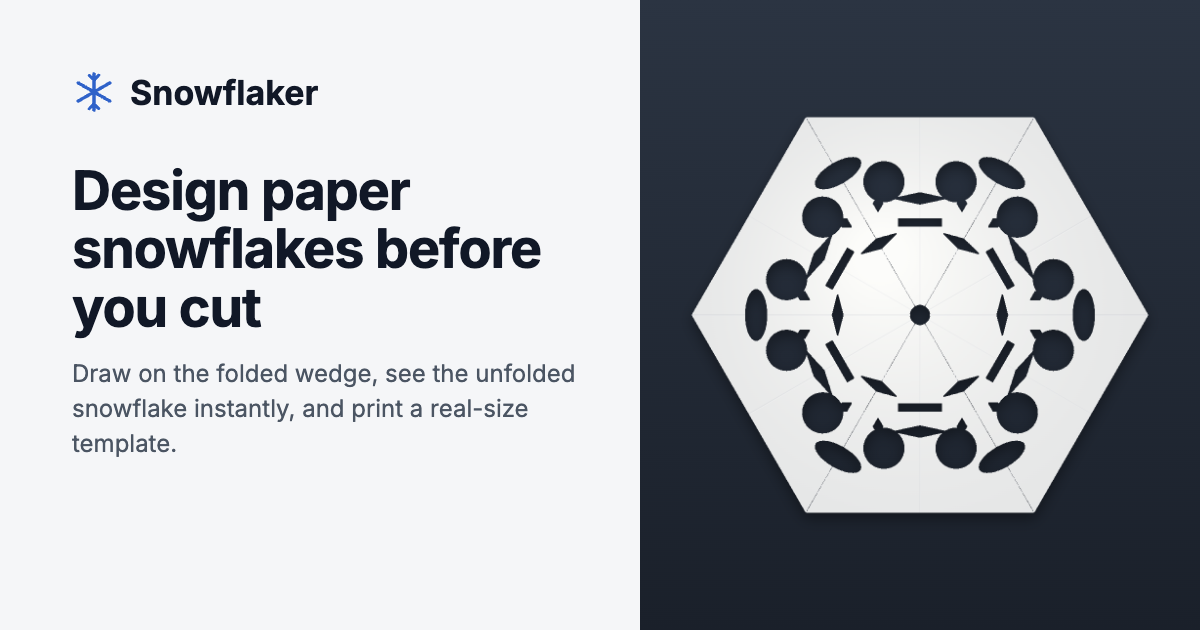
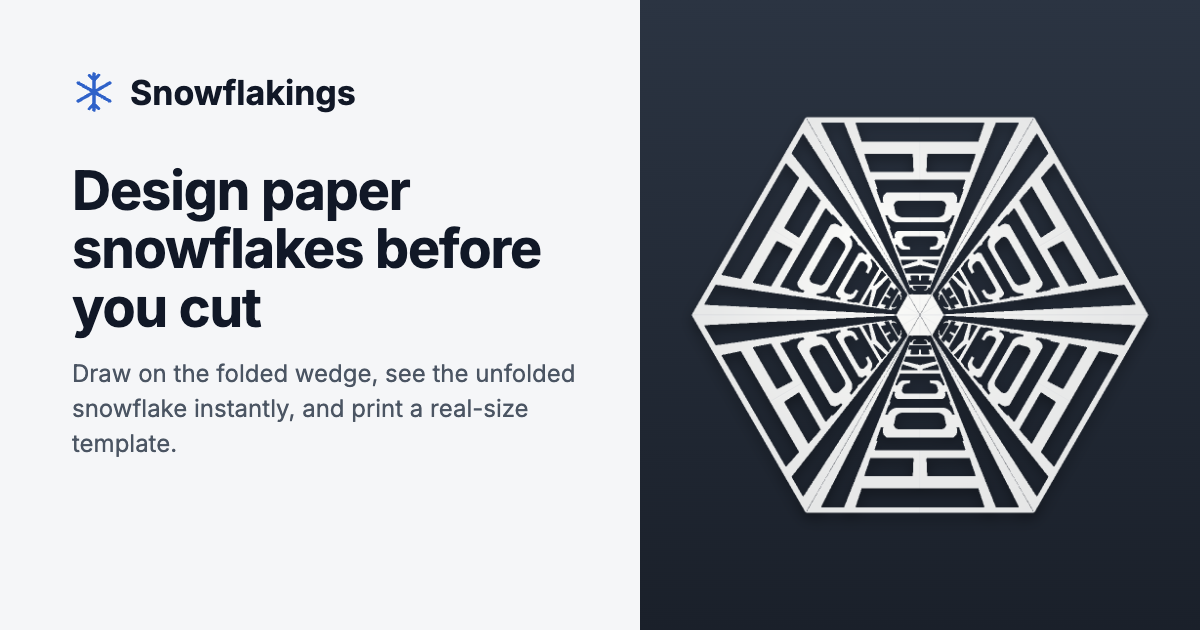
Rename to Snowflakings; full-slant words span the whole wedge
- Rename the brand from Snowflaker to Snowflakings across the page,
  metadata, manifest, llms.txt and print template (storage key and
  project file id unchanged so saved designs still load).
- At 100% slant, pin the letters' angular spread to the fold angle and
  only search the shrink rate, so long words use the full wedge instead
  of about half of it.
- Regenerate the social preview image.

Changed region(s): [[0.5858, 0.181, 0.9558, 0.8143], [0.2158, 0.1206, 0.3083, 0.181]]

diff --git a/index.html b/index.html
@@ -3,27 +3,27 @@
 <head>
   <meta charset="utf-8">
   <meta name="viewport" content="width=device-width, initial-scale=1">
-  <title>Snowflaker – Paper Snowflake Designer &amp; Cutting Template Maker</title>
+  <title>Snowflakings – Paper Snowflake Designer &amp; Cutting Template Maker</title>
   <meta name="description" content="Free online paper snowflake designer. Draw cuts on a folded 6-point paper wedge, see the unfolded snowflake instantly, add words, and print a real-size cutting template or PDF.">
   <link rel="canonical" href="https://snowflakings.com/">
   <meta name="robots" content="index, follow, max-image-preview:large">
   <meta name="theme-color" content="#2f62c9">
-  <meta name="application-name" content="Snowflaker">
+  <meta name="application-name" content="Snowflakings">
   <meta name="author" content="Seamus Sutula">
 
   <!-- Open Graph / social previews -->
   <meta property="og:type" content="website">
-  <meta property="og:site_name" content="Snowflaker">
-  <meta property="og:title" content="Snowflaker – Paper Snowflake Designer">
+  <meta property="og:site_name" content="Snowflakings">
+  <meta property="og:title" content="Snowflakings – Paper Snowflake Designer">
   <meta property="og:description" content="Draw cuts on a folded paper wedge and instantly see the unfolded six-point snowflake. Add words and print a cutting template.">
   <meta property="og:url" content="https://snowflakings.com/">
   <meta property="og:image" content="https://snowflakings.com/og-image.png">
   <meta property="og:image:width" content="1200">
   <meta property="og:image:height" content="630">
-  <meta property="og:image:alt" content="A six-point paper snowflake designed in Snowflaker, beside its folded paper wedge.">
+  <meta property="og:image:alt" content="A six-point paper snowflake designed in Snowflakings, beside its folded paper wedge.">
   <meta property="og:locale" content="en_US">
   <meta name="twitter:card" content="summary_large_image">
-  <meta name="twitter:title" content="Snowflaker – Paper Snowflake Designer">
+  <meta name="twitter:title" content="Snowflakings – Paper Snowflake Designer">
   <meta name="twitter:description" content="Draw cuts on a folded paper wedge and instantly see the unfolded six-point snowflake.">
   <meta name="twitter:image" content="https://snowflakings.com/og-image.png">
 
@@ -40,14 +40,14 @@
         "@type": "WebSite",
         "@id": "https://snowflakings.com/#website",
         "url": "https://snowflakings.com/",
-        "name": "Snowflaker",
+        "name": "Snowflakings",
         "description": "Free online paper snowflake designer and cutting template maker.",
         "inLanguage": "en"
       },
       {
         "@type": "WebApplication",
         "@id": "https://snowflakings.com/#app",
-        "name": "Snowflaker",
+        "name": "Snowflakings",
         "url": "https://snowflakings.com/",
         "applicationCategory": "DesignApplication",
         "applicationSubCategory": "Paper craft design",
@@ -56,7 +56,7 @@
         "isAccessibleForFree": true,
         "offers": { "@type": "Offer", "price": "0", "priceCurrency": "USD" },
         "image": "https://snowflakings.com/og-image.png",
-        "description": "Snowflaker is a free browser tool for designing paper snowflakes. You draw cuts on a picture of the folded paper wedge (a square folded into twelve layers with a 30-degree point) and it shows the unfolded six-point snowflake instantly. It can turn a word into a cut pattern, import SVG cut lines, and print a real-size cutting template or save it as a PDF.",
+        "description": "Snowflakings is a free browser tool for designing paper snowflakes. You draw cuts on a picture of the folded paper wedge (a square folded into twelve layers with a 30-degree point) and it shows the unfolded six-point snowflake instantly. It can turn a word into a cut pattern, import SVG cut lines, and print a real-size cutting template or save it as a PDF.",
         "featureList": [
           "Draw freehand, straight-line and circle cuts on a folded paper wedge",
           "Live preview of the unfolded six-point snowflake with six-fold symmetry",
@@ -92,10 +92,10 @@
         "@id": "https://snowflakings.com/#faq",
         "mainEntity": [
           { "@type": "Question", "name": "How do I make a six-point paper snowflake?", "acceptedAnswer": { "@type": "Answer", "text": "Fold a square sheet corner to corner, fold the triangle in half, then fold it into thirds so you have a 30-degree wedge with twelve layers. Trim the top, cut shapes out of the edges and unfold. Real snowflakes have six-fold symmetry, which this fold reproduces." } },
-          { "@type": "Question", "name": "Can I preview a paper snowflake before cutting it?", "acceptedAnswer": { "@type": "Answer", "text": "Yes. In Snowflaker you draw cuts on a picture of the folded wedge and the unfolded snowflake updates instantly, including which pieces fall away." } },
+          { "@type": "Question", "name": "Can I preview a paper snowflake before cutting it?", "acceptedAnswer": { "@type": "Answer", "text": "Yes. In Snowflakings you draw cuts on a picture of the folded wedge and the unfolded snowflake updates instantly, including which pieces fall away." } },
           { "@type": "Question", "name": "How do I print a snowflake cutting template?", "acceptedAnswer": { "@type": "Answer", "text": "Choose your paper size and click Print / Save as PDF. Print at 100% (actual size), check the scale bar, then trace or tape the template onto your folded wedge and cut along the red lines." } },
           { "@type": "Question", "name": "How do I put a word or name in a paper snowflake?", "acceptedAnswer": { "@type": "Answer", "text": "Type up to seven letters into the Word cut-out tool. Only letters whose top and bottom halves match work, because the fold acts as a mirror: B, C, D, E, H, I, K, l, O, t and X. The word repeats six times around the snowflake, and you can slant the letters, make them straight or curved, and stretch them to fill the arm." } },
-          { "@type": "Question", "name": "Is Snowflaker free?", "acceptedAnswer": { "@type": "Answer", "text": "Yes. Snowflaker is free, runs entirely in your browser, needs no account, and saves your design automatically on your device." } },
+          { "@type": "Question", "name": "Is Snowflakings free?", "acceptedAnswer": { "@type": "Answer", "text": "Yes. Snowflakings is free, runs entirely in your browser, needs no account, and saves your design automatically on your device." } },
           { "@type": "Question", "name": "Can I import my own SVG design?", "acceptedAnswer": { "@type": "Answer", "text": "Yes. Click Import SVG or drop an SVG file onto the folded paper. Its paths become cut lines, or sketch guides if the Sketch layer is active." } }
         ]
       }
@@ -108,9 +108,9 @@
   <link rel="stylesheet" href="styles.css">
 </head>
 <body>
-  <noscript><p class="noscript">Snowflaker is an interactive paper snowflake designer and needs JavaScript. Turn on JavaScript to draw cuts and preview your snowflake. The folding guide and FAQ below still work without it.</p></noscript>
+  <noscript><p class="noscript">Snowflakings is an interactive paper snowflake designer and needs JavaScript. Turn on JavaScript to draw cuts and preview your snowflake. The folding guide and FAQ below still work without it.</p></noscript>
   <header class="topbar">
-    <a class="brand" href="./" aria-label="Snowflaker home">
+    <a class="brand" href="./" aria-label="Snowflakings home">
       <svg class="brand-mark" viewBox="-12 -12 24 24" aria-hidden="true">
         <g stroke="currentColor" stroke-width="1.8" stroke-linecap="round" fill="none">
           <path d="M0-10V10M-8.7-5L8.7 5M-8.7 5L8.7-5"/>
@@ -118,7 +118,7 @@
           <path d="M-5.6-3.2l-3.6 1M-5.6-3.2l-1-3.6M5.6 3.2l3.6-1M5.6 3.2l1 3.6M5.6-3.2l3.6 1M5.6-3.2l1-3.6M-5.6 3.2l-3.6-1M-5.6 3.2l-1 3.6"/>
         </g>
       </svg>
-      <span>Snowflaker</span>
+      <span>Snowflakings</span>
     </a>
     <h1 class="tagline"><span>Paper snowflake designer &amp; cutting template maker</span></h1>
     <nav class="top-actions">
@@ -399,7 +399,7 @@
     <div class="about-intro">
       <p class="eyebrow">About</p>
       <h2 id="about-title">A paper snowflake designer that shows the result before you cut</h2>
-      <p><strong>Snowflaker</strong> is a free, browser-based tool for designing paper snowflakes. You draw on a picture of the folded paper: a square folded into a 30° wedge with twelve layers. Snowflaker shows the unfolded six-point snowflake instantly, including which pieces fall away. When you like it, print a real-size cutting template or save it as a PDF.</p>
+      <p><strong>Snowflakings</strong> is a free, browser-based tool for designing paper snowflakes. You draw on a picture of the folded paper: a square folded into a 30° wedge with twelve layers. Snowflakings shows the unfolded six-point snowflake instantly, including which pieces fall away. When you like it, print a real-size cutting template or save it as a PDF.</p>
       <ul class="about-points">
         <li><b>Six-fold symmetry.</b> Every cut repeats twelve times, mirrored, just like a real ice crystal.</li>
         <li><b>Word snowflakes.</b> Turn a short word or name into cuts that read around all six arms.</li>
@@ -426,7 +426,7 @@
         <p>Type up to seven letters into <b>Word cut-out</b>. The fold works as a mirror, so only letters whose top and bottom halves match will work: B, C, D, E, H, I, K, l, O, t and X. The word repeats six times. You can slant the letters, make them straight or curved, and stretch them to fill the arm.</p>
       </details>
       <details>
-        <summary>Is Snowflaker free?</summary>
+        <summary>Is Snowflakings free?</summary>
         <p>Yes. It runs entirely in your browser, needs no account, and saves your design automatically on your device. Use <b>Save design</b> to keep a copy as a file.</p>
       </details>
       <details>

diff --git a/js/words.js b/js/words.js
@@ -1,5 +1,5 @@
 /*
- * Snowflaker words — spell a word along a fold so it appears six times.
+ * Snowflakings words — spell a word along a fold so it appears six times.
  *
  * Only letters that are symmetric top-to-bottom work: we draw the TOP half of
  * each letter with its midline on fold edge A, and unfolding mirrors in the
@@ -239,15 +239,21 @@
     const d = slant >= 0.999 ? 0 : 0.6 * (1 / slant - 1);
     const at = (rho, th) => [rho * Math.sin(th), -d + rho * Math.cos(th)];
     // Inside the paper, clear of the trimmed edge, and a few degrees clear of fold B
-    const angleOk = p => Math.atan2(p[0], p[1]) <= E.WEDGE - ec.am;
+    const angleOk = p => Math.atan2(p[0], p[1]) <= E.WEDGE - ec.am + 1e-9;
     const ok = p => E.pointInPoly(p, outline) && distToTrim(p, outline) >= M && angleOk(p);
     const okOut = p => E.pointInPoly(p, outline) && distToTrim(p, outline) >= ec.margin && angleOk(p);
     const rayOk = (u, p) => (ec.edge && u < 1 ? angleOk(p) : ok(p));   // edge mode: trim may crop the first letter's frame
     const N = 10;
+    // At full slant the letters always fan out across the whole wedge: the angular
+    // scale `a` is pinned to the fold angle and only the shrink rate `c` is searched.
+    // (Below full slant the map stays conformal, a = c.)
+    const full = d === 0;
+    const aFull = (E.WEDGE - ec.am) / depth;
+    const angOf = c => (full ? aFull : c);
 
     // Largest start radius (around P) whose outer edge still fits on the paper
     const fitRho0 = c => {
-      const thOut = c * ec.vOut;
+      const thOut = angOf(c) * ec.vOut;
       const arcOk = rho => { for (let k = 1; k <= N; k++) if (!okOut(at(rho, (thOut * k) / N))) return false; return true; };
       // Walk inward from beyond the paper until the arc fits, then refine.
       let hi = d + 1.05, lo = 0;
@@ -258,7 +264,7 @@
       return lo * Math.exp(c * (ec.uOut + PAD));   // radius found is at u = uOut; convert to u = -PAD
     };
     const check = (c, needMin) => {
-      const thMax = c * depth;
+      const thMax = angOf(c) * depth;
       if (thMax >= E.WEDGE) return null;
       const rho0 = fitRho0(c);
       if (!rho0) return null;
@@ -266,7 +272,7 @@
       if (needMin && Math.hypot(...at(rho1, 0)) < RMIN) return null;               // keep a solid paper hub at the centre
       for (let k = 1; k <= N; k++) if (!ok(at(rho1, (thMax * k) / N))) return null;
       for (let j = 0; j <= 24; j++) if (!rayOk((span * j) / 24 - PAD, at(rho0 * Math.exp((-c * span * j) / 24), thMax))) return null;
-      if (needMin && c * rho0 * Math.exp(-c * (span - PAD)) < HMIN) return null;   // last letter big enough to cut
+      if (needMin && angOf(c) * rho0 * Math.exp(-c * (span - PAD)) < HMIN) return null;   // last letter big enough to cut
       return { c, rho0 };
     };
     const cMax = (E.WEDGE - ec.am) / depth;
@@ -274,13 +280,17 @@
     for (let i = 0; i < 240 && !best; i++) best = check(cMax * (1 - i / 240), true);
     if (!best) return null;
     let { c, rho0 } = best;
+    let a = angOf(c);
     if (scale < 1) {
-      c *= scale;
-      rho0 = fitRho0(c) || rho0;
+      c *= scale; a *= scale;
+      const thOut = a * ec.vOut;
+      const arcOk = rho => { for (let k = 1; k <= N; k++) if (!okOut(at(rho, (thOut * k) / N))) return false; return true; };
+      let r = d + 1.05; while (r > d + 0.02 && !arcOk(r)) r -= 0.005;
+      if (r > d + 0.02) rho0 = r * Math.exp(c * (ec.uOut + PAD));
     }
     return {
-      map: ([u, v]) => at(rho0 * Math.exp(-c * (u + PAD)), c * v),
-      halfHeightAt: u => c * rho0 * Math.exp(-c * (u + PAD)),
+      map: ([u, v]) => at(rho0 * Math.exp(-c * (u + PAD)), a * v),
+      halfHeightAt: u => a * rho0 * Math.exp(-c * (u + PAD)),
     };
   }
 
@@ -296,7 +306,7 @@
    */
   function layoutTapered(span, depth, outline, slant, scale, breaks, ec) {
     const d = slant >= 0.999 ? 0 : 0.6 * (1 / slant - 1);
-    const angleOk = p => Math.atan2(p[0], p[1]) <= E.WEDGE - ec.am;
+    const angleOk = p => Math.atan2(p[0], p[1]) <= E.WEDGE - ec.am + 1e-9;
     const ok = p => E.pointInPoly(p, outline) && distToTrim(p, outline) >= M && angleOk(p);
     const okOut = p => E.pointInPoly(p, outline) && distToTrim(p, outline) >= ec.margin && angleOk(p);
     const rayOk = (u, p) => (ec.edge && u < 1 ? angleOk(p) : ok(p));
@@ -312,7 +322,12 @@
       const t = (u - a) / (b - a);
       return 1 / (1 / law(a) + t * (1 / law(b) - 1 / law(a)));
     };
-    const at = (k, rho, v) => [k * v * rho, rho - d];
+    // At full slant the cap line always runs parallel to the other fold (spread
+    // pinned to the wedge); only the shrink rate k is searched. Below that, spread = k.
+    const full = d === 0;
+    const kFull = Math.tan(E.WEDGE - ec.am) / depth;
+    let spread = null;                                   // set after fitting when scale < 1
+    const at = (k, rho, v) => [(spread ?? (full ? kFull : k)) * v * rho, rho - d];
     const fitRho0 = k => {
       const edgeOk = r => { for (let j = 1; j <= N; j++) if (!okOut(at(k, r, (ec.vOut * j) / N))) return false; return true; };
       let hi = d + 1.05, lo = 0;
@@ -329,7 +344,7 @@
       for (let j = 1; j <= N; j++) if (!ok(at(k, rho1, (depth * j) / N))) return null;
       for (const u of cells) if (!rayOk(u, at(k, rhoAt(k, rho0, u), depth))) return null;
       if (needMin && rho1 - d < RMIN) return null;                                    // solid hub at the centre
-      if (needMin && k * rho0 * Math.exp(-k * (span - PAD)) < HMIN) return null;       // last letter big enough
+      if (needMin && (full ? kFull : k) * rho0 * Math.exp(-k * (span - PAD)) < HMIN) return null;       // last letter big enough
       return { k, rho0 };
     };
     const kMax = Math.tan(E.WEDGE - ec.am) / depth;
@@ -337,13 +352,16 @@
     for (let i = 0; i < 240 && !best; i++) best = check(kMax * (1 - i / 240), true);
     if (!best) return null;
     let { k, rho0 } = best;
+    let sp = full ? kFull : k;
     if (scale < 1) {
-      k *= scale;
+      k *= scale; sp *= scale;
+      spread = sp;
       rho0 = fitRho0(k) || rho0;
     }
+    spread = sp;
     return {
       map: ([u, v]) => at(k, rhoAt(k, rho0, u), v),
-      halfHeightAt: u => k * rhoAt(k, rho0, u),
+      halfHeightAt: u => sp * rhoAt(k, rho0, u),
     };
   }
 

diff --git a/js/app.js b/js/app.js
@@ -1,5 +1,5 @@
 /*
- * Snowflaker app — wires the editor, the unfold preview and all the extras.
+ * Snowflakings app — wires the editor, the unfold preview and all the extras.
  */
 (function () {
   'use strict';
@@ -430,11 +430,11 @@
     const fs = 0.022;
     const lw = u => (u / R).toFixed(5);            // line width in inches → model units
     const header = bare ? '' : `
-    <text x="${vx0 + 0.01}" y="${-vy1 + 0.035}" font-weight="700" fill="#111">Snowflaker template · ${label} square paper</text>
+    <text x="${vx0 + 0.01}" y="${-vy1 + 0.035}" font-weight="700" fill="#111">Snowflakings template · ${label} square paper</text>
     <text x="${vx0 + 0.01}" y="${-vy1 + 0.035 + fs * 1.4}">Black = trim across the top · Red = cuts · print at 100%</text>`;
     return `<?xml version="1.0" encoding="UTF-8"?>
 <svg xmlns="http://www.w3.org/2000/svg" width="${(W * R).toFixed(3)}in" height="${(H * R).toFixed(3)}in" viewBox="${vx0} ${-vy1} ${W} ${H}">
-  <title>Snowflaker cutting template — ${label} square paper</title>
+  <title>Snowflakings cutting template — ${label} square paper</title>
   <defs><clipPath id="paper"><path d="${P(outline)} Z"/></clipPath></defs>
   <path d="${P(sector)} Z" fill="none" stroke="#9aa6b8" stroke-width="${lw(0.008)}" stroke-dasharray="${lw(0.06)} ${lw(0.04)}"/>
   <path d="${P(outline)} Z" fill="#fff" stroke="#111" stroke-width="${lw(0.014)}"/>
@@ -491,7 +491,7 @@
     <h1>Snowflake cutting template</h1>
     <div>For <b>${label}</b> square paper · ${trimName} outline · ${store.state.strokes.length} cuts through 12 layers</div>
     <ol>
-      <li>Fold your square: diagonal, in half, then in thirds (see Snowflaker’s guide).</li>
+      <li>Fold your square: diagonal, in half, then in thirds (see Snowflakings’s guide).</li>
       <li>Cut out the template along the <b>black</b> outline and lay it on the folded wedge. Put its point on the centre corner and line its edges up with the folds.</li>
       <li>Trace it, trim across the top along the black line, then cut every <b>red</b> line through all the layers.</li>
       <li>Unfold slowly. ❄</li>
@@ -530,7 +530,7 @@
   }
   function importProject(text) {
     const o = JSON.parse(text);
-    if (!Array.isArray(o.strokes) || !o.trim) throw new Error('That isn’t a Snowflaker project file.');
+    if (!Array.isArray(o.strokes) || !o.trim) throw new Error('That isn’t a Snowflakings project file.');
     store.keepSeeds = [];
     editor.selected.clear();
     store.commit(o.strokes, o.trim, Array.isArray(o.guides) ? o.guides : []);

diff --git a/js/engine.js b/js/engine.js
@@ -1,5 +1,5 @@
 /*
- * Snowflaker engine — geometry of the folded wedge and the "cut & unfold" simulation.
+ * Snowflakings engine — geometry of the folded wedge and the "cut & unfold" simulation.
  *
  * Model space: the folded paper is a 30° wedge with its point (the centre of the
  * original square) at the origin. Edge A runs straight up (+y), edge B sits 30°

diff --git a/js/editor.js b/js/editor.js
@@ -1,5 +1,5 @@
 /*
- * Snowflaker editor — draw cuts on the folded wedge.
+ * Snowflakings editor — draw cuts on the folded wedge.
  * Renders into an <svg>; all geometry lives in model space (see engine.js).
  */
 (function (global) {
